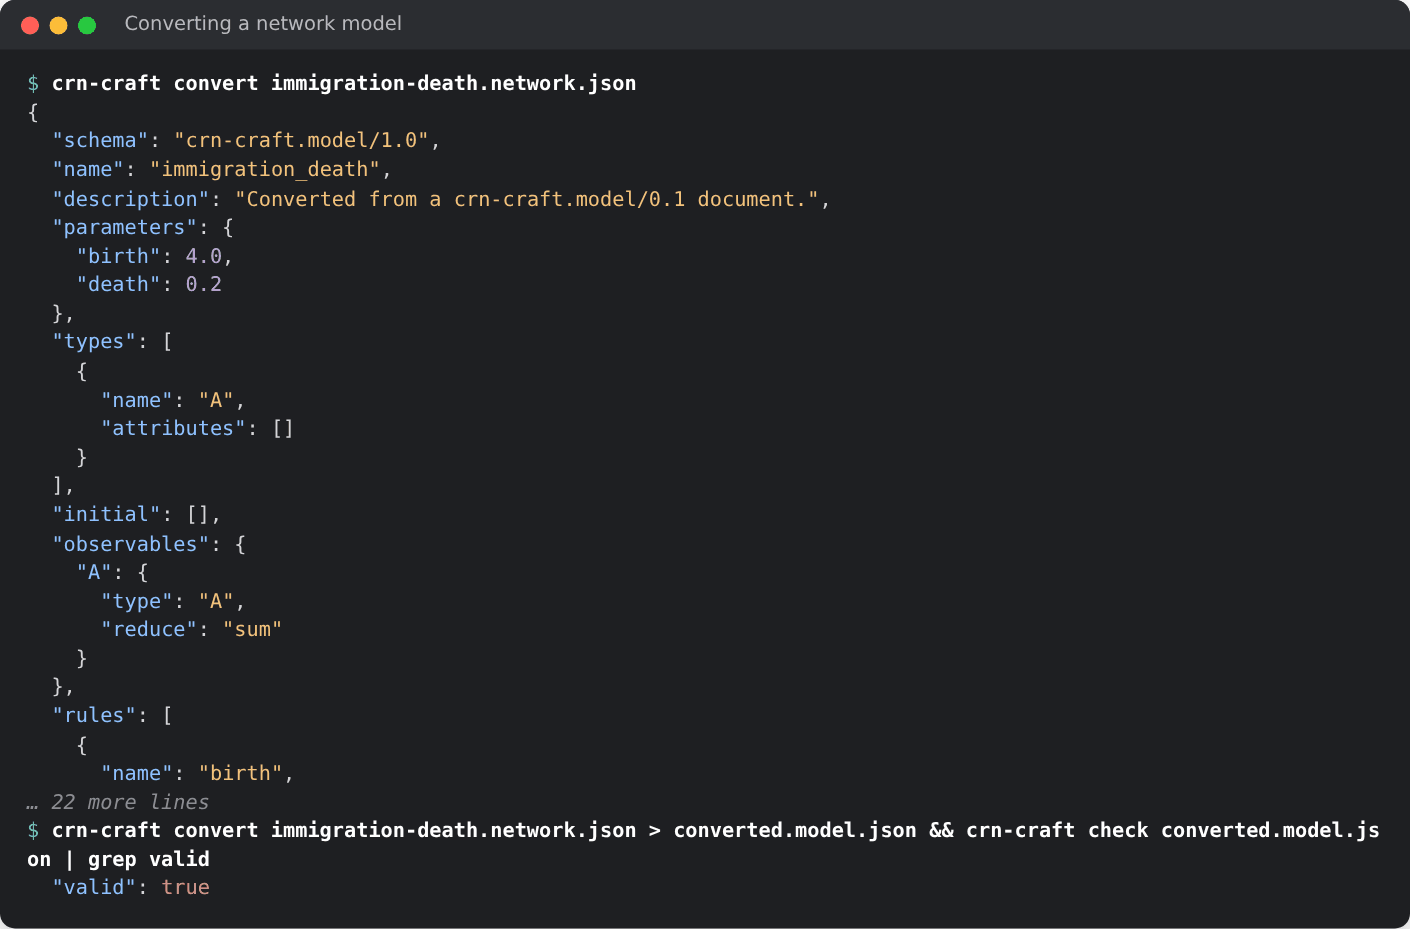
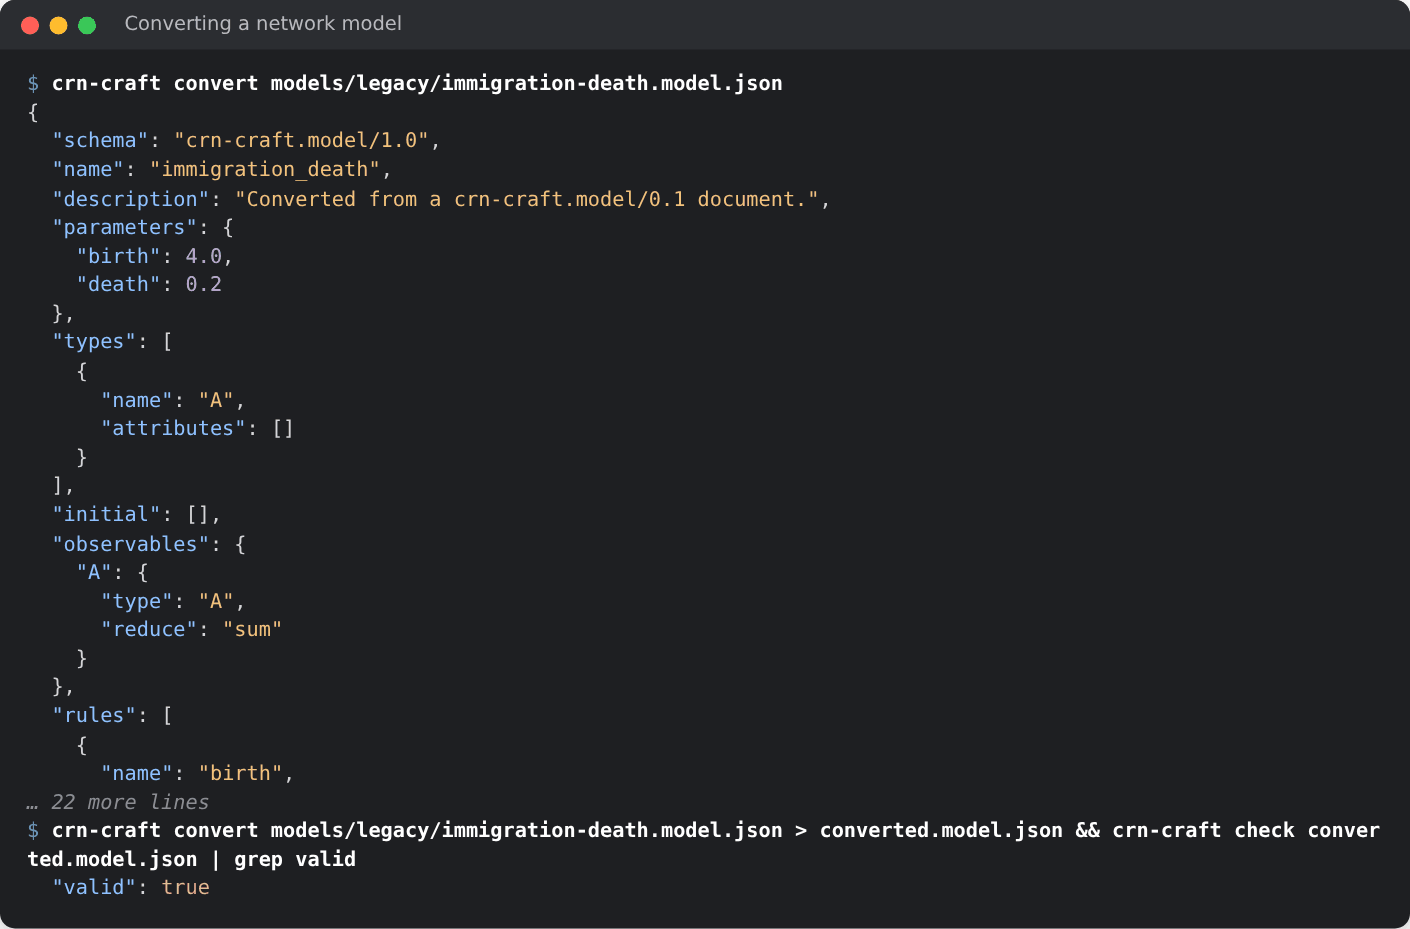
docs(guide): chapter 11, Analysis, import and export
The enzyme mechanism and the repressilator are built with the builder; the
repressilator reproduces the packaged model's path, so its figure stays.
Screenshots 11 (export of the builder enzyme model) and 12 (convert of the
file under models/legacy/) are regenerated.

Claude-Session: https://claude.ai/code/session_01Sh6qGxqnd57hD9oeWUyhvk

Changed region(s): [[0.0312, 0.8741, 0.9674, 0.9365], [0.1872, 0.0624, 0.5617, 0.0936]]

diff --git a/docs/guide/11-analysis-import-export.md b/docs/guide/11-analysis-import-export.md
@@ -1,0 +1,229 @@
+# 11. Analysis, import and export
+
+<!-- fixtures: models/legacy/immigration-death.model.json examples/guide/dimer.xml -->
+
+This chapter collects what surrounds a simulation: the structure of a
+network, two diagnostics of saved paths, and the exchange of models with
+other formats and tools. The setup block builds the immigration–death model.
+The blocks of this chapter continue from it:
+
+```python
+import json
+import pathlib
+
+import numpy as np
+import crn_craft as crn
+
+model = crn.Model("immigration_death")
+model.add_parameter({"birth": 4.0, "death": 0.2})
+model.add_species("A", 0)
+model.add_reaction("birth", [], ["A"], name="birth")
+model.add_reaction("death * A", ["A"], [], name="death")
+```
+
+Two sections read a repository file:
+[`models/legacy/immigration-death.model.json`](https://github.com/dietmarwo/CRN-craft/blob/main/models/legacy/immigration-death.model.json)
+and [`examples/guide/dimer.xml`](https://github.com/dietmarwo/CRN-craft/blob/main/examples/guide/dimer.xml).
+Copy them under the same paths, or work in the root of a clone.
+
+## Conservation laws and structure
+
+`Model.analyze` reports structure without simulating: the stoichiometry, a
+basis of conservation laws in exact integer arithmetic, the bounds they
+imply for the initial state, and complexes, linkage classes and deficiency.
+The example is an enzyme mechanism, `S + E <-> ES -> E + P`:
+
+```python
+enzyme = crn.Model("enzyme_mechanism")
+enzyme.add_species({"S": 50, "E": 10, "ES": 0, "P": 0})
+enzyme.add_reaction(0.01, ["S", "E"], ["ES"], name="bind")
+enzyme.add_reaction(0.1, ["ES"], ["S", "E"], name="unbind")
+enzyme.add_reaction(0.5, ["ES"], ["E", "P"], name="catalysis")
+report = enzyme.analyze()["analysis"]
+print(report["species"])
+print(report["conservation"]["basis"])           # E + ES and S + ES + P
+print(report["initial_class_upper_bounds"])      # S, E, ES, P cannot exceed these
+print("deficiency", report["linkage"]["deficiency"])
+pathlib.Path("enzyme-mechanism.model.json").write_text(enzyme.to_json())  # for the last section
+```
+
+```text
+['S', 'E', 'ES', 'P']
+[{'coefficients': ['0', '1', '1', '0'], 'initial_total': '10'}, {'coefficients': ['1', '0', '1', '1'], 'initial_total': '50'}]
+['50', '10', '10', '50']
+deficiency 0
+```
+
+The laws are `E + ES = 10` and `S + ES + P = 50`, so every count is bounded,
+and the deficiency is zero. The limits of the analysis are explicit: when
+one is reached, the report says `unavailable` and never implies that no law
+exists. A model with continuous variables has no such report (`CRN-R017`).
+`crn-craft analyze MODEL` prints the same report for a model file
+([Analysis report](../reference/analysis.md)).
+
+## Oscillations
+
+`observables.oscillation` classifies one time series. The example is a
+repressilator: three genes that repress each other in a ring, with Hill
+repression, built in a loop over the genes:
+
+```python
+from crn_craft.observables import oscillation
+
+circuit = crn.Model("repressilator")
+circuit.add_parameter({"alpha0": 0.216, "alpha": 216.0, "K": 40.0, "n": 2.0})
+circuit.add_parameter({"beta": 5.0, "gamma_m": 1.0, "gamma_p": 0.2})
+circuit.add_species("p1", 5)
+for gene, repressor in ((1, 3), (2, 1), (3, 2)):
+    mrna, protein = f"m{gene}", f"p{gene}"
+    hill = f"alpha0 + alpha / (1 + (p{repressor} / K)^n)"
+    circuit.add_reaction(hill, [], [mrna], name=f"tx{gene}")
+    circuit.add_reaction(f"beta * {mrna}", [mrna], [mrna, protein], name=f"tl{gene}")
+    circuit.add_reaction(f"gamma_m * {mrna}", [mrna], [], name=f"dm{gene}")
+    circuit.add_reaction(f"gamma_p * {protein}", [protein], [], name=f"dp{gene}")
+
+grid = list(np.linspace(0, 200, 1001))
+path = crn.ensemble(circuit, end=200.0, report_times=grid, replicates=1,
+                    keep_paths=1, method="static_direct").simulate()
+p1 = path.paths.isel(replicate=0).sel(variable="p1").to_numpy()
+verdict = oscillation(grid, p1)
+print(verdict["classification"], round(verdict["period"], 1))
+```
+
+```text
+oscillatory 40.1
+```
+
+A single exact path oscillates, with amplitudes that vary between cycles:
+
+![Repressilator, one exact path](../images/tutorial/repressilator.png)
+
+`oscillation` drops a burn-in (20% by default), removes the mean, and calls
+a series *oscillatory* only when the dominant Fourier peak holds at least
+30% of the power, spans at least three cycles, and the autocorrelation at
+that period is at least 0.2. Fewer than three cycles is *ambiguous*. It is a
+diagnostic of one trajectory, not a validated biological detector.
+
+## First passage from saved paths
+
+`sampled_first_passage` estimates when paths first reach a threshold, from
+saved states only. A path can cross and fall back between two report times,
+so the first saved hit is an upper bound on the passage time, and the
+detected fraction is a lower bound on the probability of a passage:
+
+```python
+from crn_craft.observables import sampled_first_passage
+
+fine = list(np.linspace(0, 10, 201))
+paths = crn.ensemble(model, end=10.0, report_times=fine, replicates=500, seed=42,
+                     keep_paths=500, method="static_direct").simulate()
+counts = list(paths.paths.sel(variable="A").to_numpy())
+for step in [1, 20]:
+    bound = sampled_first_passage(fine[::step], [c[::step] for c in counts], 15)
+    print(step * 0.05, bound["detected_fraction"], bound["restricted_mean_upper"])
+```
+
+```text
+0.05 0.928 6.075
+1.0 0.88 6.878
+```
+
+![First-passage bounds against grid spacing](../images/tutorial/first-passage.png)
+
+A finer grid gives tighter bounds. For the exact time, use a tracker with a
+first-passage condition, which sees every event
+([chapter 6](06-stops-trackers-logs.md#trackers)).
+
+## Convert a network model of release 0.6.0
+
+Release 0.6.0 had a second model format for reaction networks,
+`crn-craft.model/0.1`. `check`, `analyze`, `convert` and `export` read it.
+`crn-craft convert` prints it as a current model:
+
+```bash
+crn-craft convert models/legacy/immigration-death.model.json > converted.model.json
+crn-craft check converted.model.json > /dev/null && echo "the converted model is valid"
+```
+
+![Converting a network model](../images/tutorial/12-convert.png)
+
+`crn.convert` does the same in Python, from bytes to bytes:
+
+```python
+legacy = pathlib.Path("models/legacy/immigration-death.model.json")
+converted = crn.Model.from_dict(json.loads(crn.convert(legacy.read_bytes())))
+print(converted)
+```
+
+```text
+Model('immigration_death': 1 species, 2 reactions)
+```
+
+A network without reactions, or with population limits, is refused with
+`CRN-R016`. [Migrating](migrating.md) has the other changes since 0.6.0.
+
+## Import SBML and BioNetGen
+
+`crn.read_sbml`, `crn.read_bngl` and the command `crn-craft-import` convert
+an explicit subset of SBML Level 3 Version 2 and of expanded BioNetGen
+`.net` files. They reject what they cannot represent exactly (events, rules,
+fast reactions, non-integer stoichiometry, unit ambiguity) instead of
+guessing. The rate convention must be stated. This block writes a BioNetGen
+network of the dimerization `2 A -> B`:
+
+```python
+pathlib.Path("dimer.net").write_text(
+    "begin parameters\n1 k 0.1\nend parameters\n"
+    "begin species\n1 A() 20\n2 B() 0\nend species\n"
+    "begin reactions\n1 1,1 2 k\nend reactions\n"
+)
+```
+
+```bash
+crn-craft-import bng-net dimer.net dimer.import.json --convention binomial
+```
+
+![Importing a BioNetGen network](../images/tutorial/10-import.png)
+
+The command writes a `crn-craft.import/1.0` report with the provenance and
+the model. In Python the import returns a `Model` with an `import_report`:
+
+```python
+dimer = crn.read_bngl("dimer.net", convention="binomial")
+print(dimer, dimer.import_report["source_format"])
+sbml = crn.read_sbml("examples/guide/dimer.xml", convention="stochastic_count_propensity")
+print(sbml, sbml.import_report["source_format"])
+means = crn.ensemble(sbml, end=50.0, report_times=[0.0, 50.0], replicates=100,
+                     seed=1, method="static_direct").simulate().statistics["mean"]
+print(means.iloc[-1].to_dict())
+```
+
+```text
+Model('ImportedBioNetGen': 2 species, 1 reactions) bionetgen_expanded_net_subset
+Model('Dimer': 2 species, 1 reactions) sbml_l3v2_core_subset
+{'A': 0.0, 'B': 10.0}
+```
+
+The 20 molecules of `A` pair up into 10 of `B`. An imported model runs under
+every method, like a built one.
+
+## Export to GillesPy2
+
+`crn-craft export MODEL gillespy2` writes GillesPy2 1.8.3 source for a model
+file, here the enzyme mechanism that the first section wrote. It is meant
+for a cross-check with another simulator
+([chapter 8](08-reproducibility.md#reproducing-a-published-simulation)). The
+command never runs the source:
+
+```bash
+crn-craft export enzyme-mechanism.model.json gillespy2 > export.json
+```
+
+![Exporting to GillesPy2 source](../images/tutorial/11-export.png)
+
+In Python, `enzyme.to_gillespy2()` returns the `gillespy2.Model` when
+GillesPy2 is installed. [GillesPy2 export](../reference/gillespy2-export.md)
+says which models can be exported.
+
+See also: [Analysis report](../reference/analysis.md),
+[Comparison with GillesPy2](../evidence/comparison-gillespy2.md).
